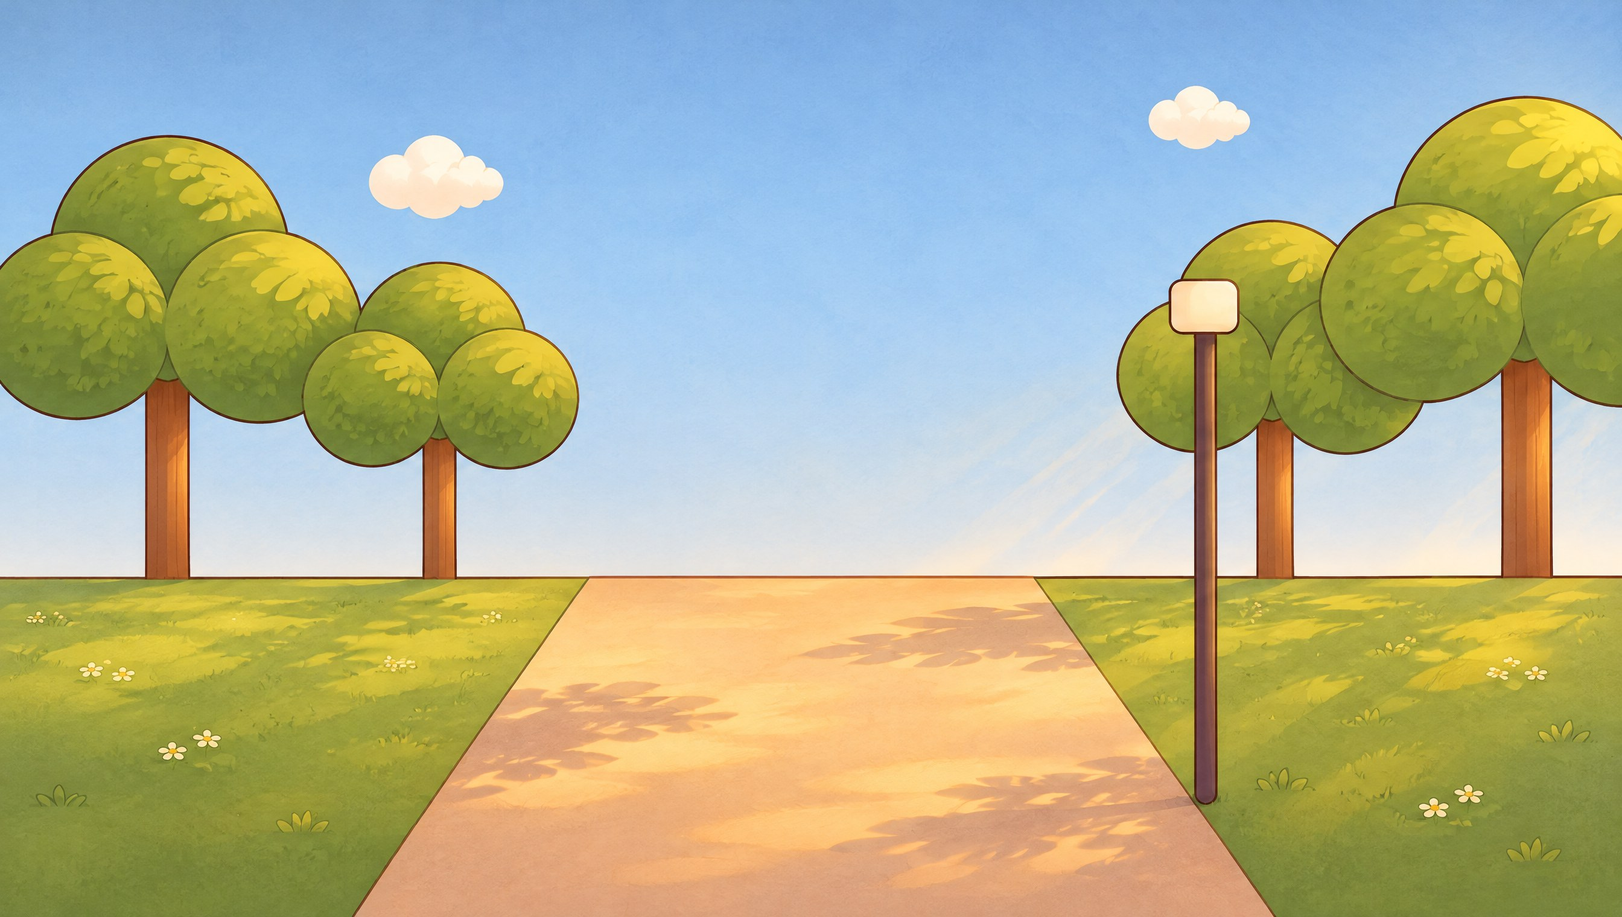
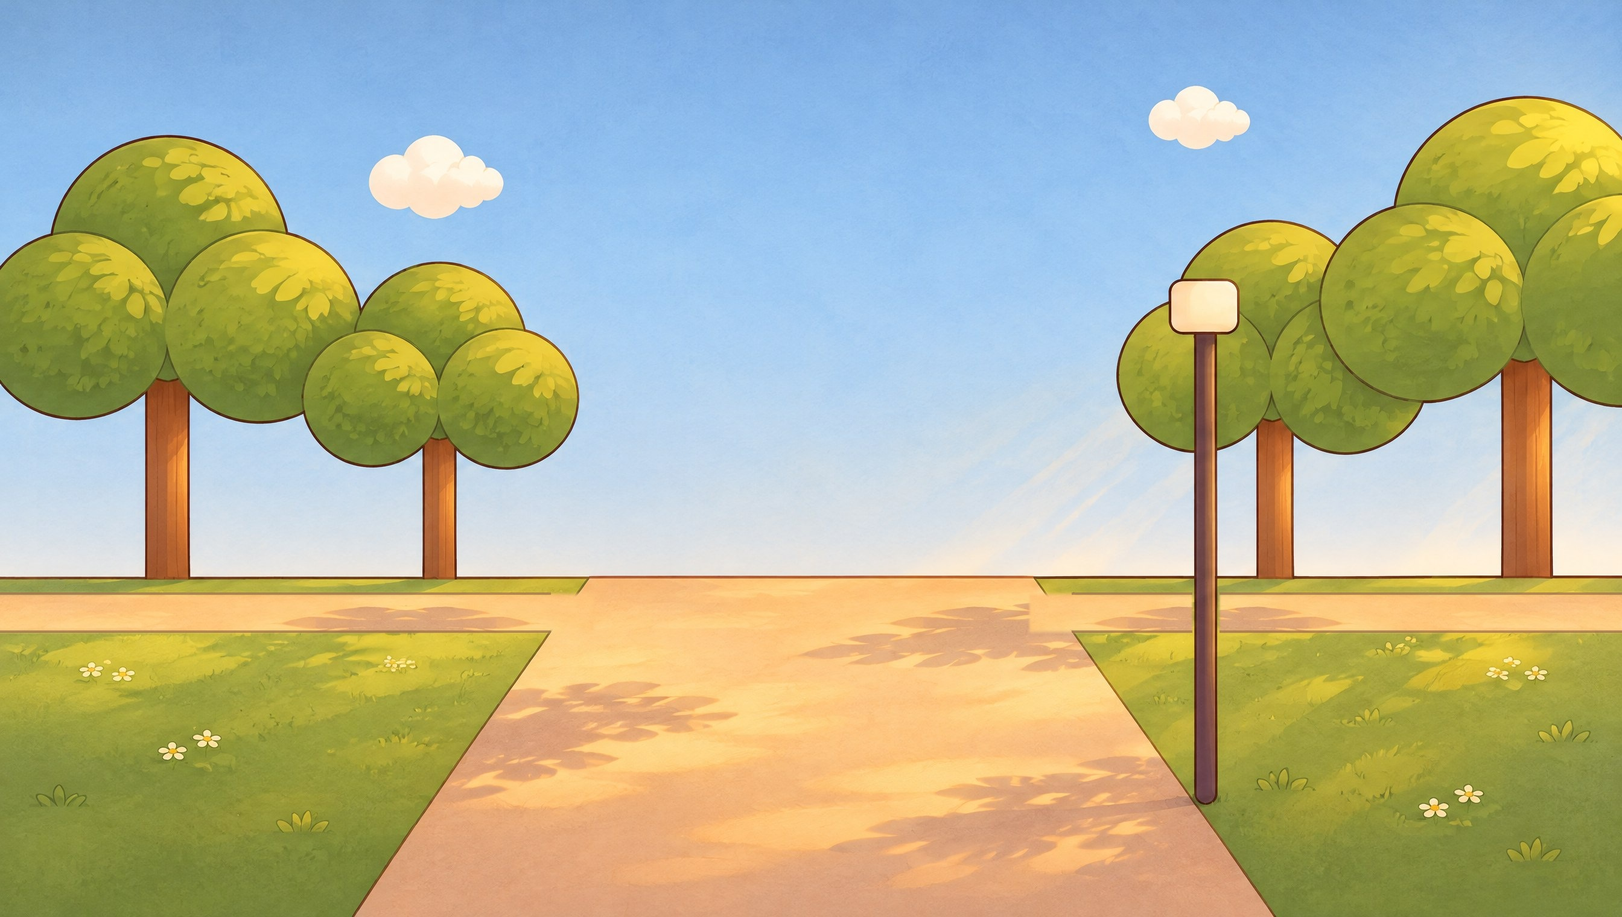
ep02: fix review notes (elbows, bench, passers-by, background noise)
- bare arms (short sleeves) are drawn as one seamless tube under the painted
  sleeve, so elbows bend without a visible mannequin joint
- no more 'desk hands' without a desk in the classroom and the kitchen;
  odd hand-on-chest gesture removed in the opening
- bench scenes: the whole bench is behind the sitter, legs dangle in front,
  hands on the thighs (no body passing through the seat)
- passers-by walk on the sidewalk (opening) and on a new cross path in the
  park, behind the bench; hidden in the blurred close-ups
- party: guests hiding behind the sofa no longer show under it; sofa legs;
  VIERNES moved from the banner to a corner caption
- mix: removed the filtered-noise street air / room tone and vision hiss
  (audible after mastering); a few soft synthetic bird chirps outdoors

Claude-Session: https://claude.ai/code/session_01TNc2K1rotN6gJL8Q6y7rCa

Changed region(s): [[0.625, 0.6184, 1.0, 0.7112], [0.0, 0.6184, 0.375, 0.7112]]

diff --git a/canal_es/ep02/scB.js b/canal_es/ep02/scB.js
@@ -1,4 +1,5 @@
 /* Ep02 scenes 6–11: rock-paper-scissors, the surprise question, small accidents, the lottery, dinner twice, no more surprises. */
+function standing(x, extra = {}) { return Object.assign({ x, y: FEET, s: S0 }, extra); }   // arms at rest: no floating 'desk' hands without a desk
 function seated(name, x, extra = {}) { return Object.assign({ x, y: FEET, s: S0, sit: 1, hL: [-62, -296], hR: [62, -296], armsFront: 1 }, extra); }
 /* rock / paper / scissors badge */
 function rps(g, x, y, k, s = 1, col = '#ffffff', label) { g.save(); g.translate(x, y); g.scale(s, s); circ(g, 0, 0, 58, col, 6);
@@ -71,7 +72,7 @@ SC.s07 = (X, t) => {
   ]);
   const st = stageF(cam); st.wld(g => { drawSet(g, 'classroom'); if (HYB) boardText(g, t > ask0 ? '6 × 7 = ?' : 'PREGUNTA SORPRESA', ''); teacherDesk(g, 1690); });
   st.col(g => drawPigeon(g, 260, 380, .38, { flip: 1, tilt: Math.sin(t * .8) * .12 }));
-  st.wld(g => { drawChar(g, 'ex2', seated('ex2', 380, { t, look: [6, 4], mouth: .1 })); drawChar(g, 'ex3', seated('ex3', 1180, { t, look: t > Lt('s07_03') ? [-16, 0] : [4, 4], mouth: t > Lt('s07_03') ? -.2 : .1, wide: t > Lt('s07_03') ? .4 : 0 })); });
+  st.wld(g => { drawChar(g, 'ex2', standing(380, { t, look: [6, 4], mouth: .1 })); drawChar(g, 'ex3', standing(1180, { t, look: t > Lt('s07_03') ? [-16, 0] : [4, 4], mouth: t > Lt('s07_03') ? -.2 : .1, wide: t > Lt('s07_03') ? .4 : 0 })); });
   // profe: at the board, back to the class, turns when you answer
   const facing = t > turn, pp = { x: 1500, y: FEET, s: S0, t, flip: facing ? -1 : 1, look: facing ? [-14, 4] : [16, -10], mouth: -.2, brow: .6, hR: [190, -560] };
   if (speaking(t, 's07_05')) { pp.open = talk(t, 's07_05'); pp.hR = [190, -560]; }
@@ -79,7 +80,7 @@ SC.s07 = (X, t) => {
   if (t > nb1) { pp.hR = [180, -420]; pp.holdR = (g, x, y) => notebook(g, x + 20, y - 40, .55, 'TÚ', -.1, pp.flip); }
   if (t > nb2) { pp.hL = [-180, -420]; pp.holdL = (g, x, y) => notebook(g, x - 20, y - 40, .55, 'TÚ 2', .1, pp.flip); }
   st.wld(g => drawChar(g, 'profe', pp));
-  const hp = seated('tu', 800, { t, mouth: .1, look: [10, 2] });
+  const hp = standing(800, { t, mouth: .1, look: [10, 2] });
   if (t > Lt('s07_02')) { hp.lid = .25; hp.mouth = .4; hp.brow = -.2; }
   if (t > Lt('s07_03') - .2 && t < Lt('s07_04') + .5) { hp.hR = [120, -640]; hp.open = talk(t, 's07_03'); }
   if (t > Lt('s07_06')) { hp.mouth = -.25; hp.sweat = 1; hp.lid = 0; hp.brow = .6; }
@@ -193,7 +194,7 @@ SC.s10 = (X, t) => {
     if (speaking(t, 's10_06')) { mp.open = talk(t, 's10_06'); mp.look = [-16, 0]; mp.mouth = .4; }
     if (t > Lt('s10_08') - .05) { mp.look = [-16, 0]; mp.wide = .7; mp.mouth = -.3; mp.brow = .9; const u = R(t, Lt('s10_08'), Lt('s10_08') + .4, back); mp.hR = [mix(140, 250, u), mix(-330, -480, u)]; mp.holdR = (g, x, y) => { for (const [c, w] of [['#3b2614', 20], ['#d9a94a', 11]]) { line(g, [[x, y - 110], [x, y + 50]], c, w); line(g, [[x - 42, y - 62], [x + 42, y - 62]], c, w); } }; }
     st.wld(g => drawChar(g, 'mama', mp));
-    const hp = seated('tu', 760, { t, look: [14, 0], mouth: .1 });
+    const hp = standing(760, { t, look: [14, 0], mouth: .1 });   // standing at the table, hands down by the edge (as in s09)
     if (speaking(t, 's10_03')) { hp.open = talk(t, 's10_03'); hp.mouth = .4; }
     if (speaking(t, 's10_07')) { hp.open = talk(t, 's10_07'); hp.lid = .3; }
     if (t > Lt('s10_08')) { hp.mouth = -.2; hp.sweat = 1; hp.brow = .5; }
@@ -233,7 +234,8 @@ function partyBannerFix(g) { g.save(); const gr = g.createLinearGradient(0, 100,
   for (const [x, y, c] of [[1440, 186, '#fde047'], [1540, 184, '#5ee7ff'], [1640, 160, '#e07a8a']]) { g.save(); g.translate(x, y + 26); g.fillStyle = c; g.strokeStyle = OUT; g.lineWidth = 4; g.beginPath();
     for (let i = 0; i < 10; i++) { const a = -Math.PI / 2 + i * Math.PI / 5, r = i % 2 ? 14 : 32; g.lineTo(Math.cos(a) * r, Math.sin(a) * r); } g.closePath(); g.fill(); g.stroke(); g.restore(); }
   g.restore(); }
-function sofa(g, x, y) { shape(g, q => rrPath(q, x - 330, y - 230, 660, 170, 40), '#4a5fa8', 7); shape(g, q => rrPath(q, x - 360, y - 110, 720, 120, 30), '#5a70b8', 7);
+function sofa(g, x, y) { for (const dx of [-320, 300]) shape(g, q => rrPath(q, x + dx - 10, y - 4, 30, 50, 6), '#2e2a3a', 5);   // legs down to the floor
+  shape(g, q => rrPath(q, x - 330, y - 230, 660, 170, 40), '#4a5fa8', 7); shape(g, q => rrPath(q, x - 360, y - 110, 720, 120, 30), '#5a70b8', 7);
   for (const dx of [-360, 330]) shape(g, q => rrPath(q, x + dx, y - 170, 40, 170, 18), '#3f528f', 6); }
 SC.s11 = (X, t) => {
   const door = Lt('s11_06') + .2, jump = Lt('s11_08') - .15, prac = Lt('s11_07');
@@ -281,9 +283,9 @@ SC.s11 = (X, t) => {
       if (!hidden) { const G = charGeom(CAST[n], p); [p.hL, p.hR] = POSE.stretch(up, G); }
       if (n === 'nacho' && speaking(t, 's11_11')) { p.open = talk(t, 's11_11'); p.mouth = .2; p.lid = .4; p.brow = .8; p.hL = p.hR = null; }
       if (n === 'nacho' && t > Lt('s11_10') && !speaking(t, 's11_11')) { p.mouth = 0; p.lid = .3; p.brow = .6; p.hL = p.hR = null; }
-      st.wld(g => drawChar(g, n, p)); }
+      st.wld(g => { if (hidden) { g.save(); g.beginPath(); g.rect(-5000, -5000, 10000, 5000 + 896); g.clip(); }   // crouched: nothing shows below the sofa
+        drawChar(g, n, p); if (hidden) g.restore(); }); }
     st.wld(g => sofa(g, 1590, 890));
-    if (t < Lt('s11_06')) st.wld(g => { text(g, 'VIERNES', 960, 260, 90, '#e02424', 'Bangers', 'center'); });
     hp = { x: t < door ? -200 : mix(260, 420, R(t, door, door + .8, io)), y: FEET, s: S0, t, walk: t > door && t < door + .8 ? 1 : 0, phase: walkPh(t * 80), look: [16, 0], mouth: .2 };
     if (t > prac && t < jump) { const k = Math.floor((t - prac) / .55) % 4; Object.assign(hp, [{ wide: .8, open: .8, brow: .9 }, { wide: .2, open: .3, brow: -.6, mouth: .9 }, { wide: 1, open: 1, brow: 1, hy: -10 }, { wide: .5, open: .6, brow: .4, rot: .1 }][k]); }
     if (t > Lt('s11_09') - .1 && t < Lt('s11_11')) { Object.assign(hp, { wide: .15, open: .35, brow: .2, mouth: 0, rot: 0 }); const G = charGeom(CAST.tu, hp); [hp.hL, hp.hR] = POSE.shrug(.4, G); }
@@ -294,6 +296,7 @@ SC.s11 = (X, t) => {
     st.col(g => futEyes(g, 'tu', hp, ga));
     composeF(X, st, { ghost: ga, t });
     if (t > jump && t < jump + 1.6) { const r = rnd(7); X.save(); for (let i = 0; i < 70; i++) { const u = (t - jump) * (.7 + r() * .6), x = r() * W, y = -40 + u * (500 + r() * 500); X.fillStyle = ['#fde047', '#e02424', '#5ee7ff', '#7ee38a'][i % 4]; X.fillRect(x + Math.sin(u * 6 + i) * 30, y, 14, 22); } X.restore(); }
+    if (t < Lt('s11_06')) sticker(X, 'VIERNES', 1, 70, 70, 62);   // a caption in the corner, not painted over the birthday banner
     if (t > Lt('s11_10') && t < Lt('s11_11')) sticker(X, 'ACTUACIÓN: 0/10', R(t, Lt('s11_10'), Lt('s11_10') + .25, back), 70, 70, 70, '#ffffff');
     futHUD(X, ga, hudN(t, door + .1, jump));
   }

diff --git a/canal_es/ep02/scC.js b/canal_es/ep02/scC.js
@@ -7,6 +7,9 @@ function dog(g, x, y, s, ph = 0, flip = 1) { g.save(); g.translate(x, y); g.scal
   g.save(); g.translate(78, -96); ell(g, 0, 0, 40, 34, 0, '#d99a58'); ell(g, 34, 10, 22, 16, 0, '#d99a58'); circ(g, 52, 4, 7, OUT, 0); circ(g, 8, -8, 5, OUT, 0);
   ell(g, -18, -10, 14, 28, .4, '#8a5a2b'); g.restore(); g.restore(); }
 function leaf(g, x, y, r, c = '#e0913a') { g.save(); g.translate(x, y); g.rotate(r); shape(g, q => { q.moveTo(-18, 0); q.quadraticCurveTo(0, -14, 18, 0); q.quadraticCurveTo(0, 14, -18, 0); }, c, 3); g.restore(); }
+/* sitting on the park bench, seen from the front: the whole bench is drawn behind the sitter, hips on the seat, short
+   (foreshortened) legs dangling in front of it with the feet off the ground (no floor shadow), hands resting on the thighs */
+function benchSit(x, extra = {}) { return Object.assign({ x, y: 905, s: S0, sit: 1, noShadow: 1, hL: [-80, -125], hR: [80, -125], armsFront: 1 }, extra); }
 function dashRing(g, x, y, r, t, col = '#fde047') { g.save(); g.strokeStyle = col; g.lineWidth = 8; g.setLineDash([22, 16]); g.lineDashOffset = -t * 60; g.beginPath(); g.arc(x, y, r, 0, 7); g.stroke(); g.restore(); }
 
 /* ================================================================ 12. five seconds ahead of everyone; Pepe has no ghost */
@@ -46,21 +49,19 @@ SC.s12 = (X, t) => {
     if (t > laugh && t < laugh + 1.2) comicWord(X, '¡JA!', ...worldToScreen(cam, 800, 320), t - laugh, 70);
     if (t > laugh + lag && t < laugh + lag + 1.2) comicWord(X, '¡JAJAJA!', ...worldToScreen(cam, 1450, 300), t - laugh - lag, 70);
   } else {
-    st.wld(g => { drawSet(g, 'park'); bench(g, 0); });
-    // passers-by, a dog and falling leaves: each with its ghost a few steps ahead
+    // passers-by and a dog on the far cross path, behind the bench; each with its ghost a few steps ahead
     const P = [['ex1', 150, 70], ['ex6', 1900, -60]], dg = tt => 1800 - 120 * (tt - bench0);
-    const far = t < Lt('s12_09') - .1 || t > Lt('s12_12') - .1;
-    if (far) st.wld(g => { for (const [n, x0, v] of P) walker(g, n, x0, v, t - bench0, { s: .4, y: 720 }); dog(g, dg(t), 740, .4, t * 9, -1); });
+    const far = (cam.z || 1) < 1.45;   // the far path only in the wide shots (in the blurred close-ups a sharp passer-by reads as standing on the bench)
+    st.wld(g => { drawSet(g, 'park'); if (far) { for (const [n, x0, v] of P) walker(g, n, x0, v, t - bench0, { s: .4, y: 724 }); dog(g, dg(t), 738, .4, t * 9, -1); } bench(g, 0); bench(g, 1); });
     const L = [[700, 0], [1250, 2.1], [1500, 1.1], [420, 3.0]], leafAt = (tt, i) => { const [x, ph] = L[i], u = ((tt * .12 + ph * .3) % 1); return [x + Math.sin(u * 9 + i) * 40, -60 + u * 1100, u * 9]; };
     st.wld(g => { for (let i = 0; i < L.length; i++) leaf(g, ...leafAt(t, i)); });
-    const hp = { x: 900, y: 905, s: S0, t, sit: 1, look: [14, 6], mouth: .1, hL: [-40, -300], hR: [40, -300], armsFront: 1 };
+    const hp = benchSit(900, { t, look: [14, 6], mouth: .1 });
     if (t > Lt('s12_09')) { hp.look = [16, 12]; hp.wide = .4; hp.brow = .5; }
     if (speaking(t, 's12_12')) { hp.open = talk(t, 's12_12'); hp.brow = .7; }
     st.col(g => drawChar(g, 'tu', hp));
-    st.wld(g => bench(g, 1));
     st.col(g => drawPigeon(g, 1080, 792, .62, { flip: -1, front: t > Lt('s12_12'), tilt: t > Lt('s12_13') ? .25 * bump(t, Lt('s12_13') + .3, Lt('s12_13') + 1.4) : Math.sin(t * 1.1) * .06 }));
     ga = vis(t, Lt('s12_07') + .4, T().dur);
-    if (ga > 0) st.fut(g => { if (far) { for (const [n, x0, v] of P) walker(g, n, x0, v, t - bench0 + 4.5, { s: .4, y: 720 }); dog(g, dg(t + 3), 740, .4, t * 9, -1); } for (let i = 0; i < L.length; i++) leaf(g, ...leafAt(t + 3.5, i)); });
+    if (ga > 0) st.fut(g => { if (far) { for (const [n, x0, v] of P) walker(g, n, x0, v, t - bench0 + 4.5, { s: .4, y: 724 }); dog(g, dg(t + 3), 738, .4, t * 9, -1); } for (let i = 0; i < L.length; i++) leaf(g, ...leafAt(t + 3.5, i)); });
     st.col(g => futEyes(g, 'tu', hp, ga * .8));
     composeF(X, st, { ghost: ga, t, rim: .6 });
     if (t > Lt('s12_09') - .05) { const [px, py] = worldToScreen(cam, 1080, 740); X.save(); X.globalAlpha = R(t, Lt('s12_09'), Lt('s12_09') + .3); dashRing(X, px, py, 95 * cam.z, t); X.restore(); }
@@ -220,12 +221,11 @@ SC.s16 = (X, t) => {
     { t: Lt('s16_06') - .05, cx: 1140, cy: 660, z: 3.0, z2: 3.3, lock: 1 },
     { t: Lt('s16_07') - .05, cx: 1120, cy: 690, z: 2.4, z2: 2.8, lock: 1 },
   ]);
-  const st = stageF(cam); st.wld(g => { drawSet(g, 'parkNight'); bench(g, 0); });
-  const hp = { x: 900, y: 905, s: S0, t, sit: 1, look: [14, 6], mouth: .3, open: t < Lt('s16_03') ? Math.abs(Math.sin(t * 7)) * .4 : 0, hL: [-40, -300], hR: [40, -300], armsFront: 1 };
+  const st = stageF(cam); st.wld(g => { drawSet(g, 'parkNight'); bench(g, 0); bench(g, 1); });
+  const hp = benchSit(900, { t, look: [14, 6], mouth: .3, open: t < Lt('s16_03') ? Math.abs(Math.sin(t * 7)) * .4 : 0 });
   if (t > Lt('s16_04')) { hp.open = 0; hp.wide = .7; hp.mouth = -.1; hp.brow = .8; }
   if (t > Lt('s16_07')) { hp.sweat = 1; hp.wide = 1; }
   st.col(g => drawChar(g, 'tu', hp));
-  st.wld(g => bench(g, 1));
   st.col(g => drawPigeon(g, 1080, 792, .62, { flip: -1, tilt: Math.sin(t * 1.1) * .06 }));
   const ga = vis(t, g0, cut + 1, .6);
   if (ga > 0) st.fut(g => { const u = R(t, beak, beak + .4, back); drawPigeon(g, 1150, 780 - 20 * ga, .7, { flip: -1, front: t > Lt('s16_06'), tilt: -.15 * u });
@@ -291,10 +291,9 @@ SC.s17 = (X, t) => {
 SC.s18 = (X, t) => {
   const end = Le('s18_05') + .9;
   const cam = shots(t, [], [{ t: 0, cx: 1060, cy: 600, z: 1.25, z2: 1.35, lock: 1 }, { t: Lt('s18_05') - .1, cx: 1080, cy: 735, z: 3.6, z2: 3.8, lock: 1 }]);
-  const st = stageF(cam); st.wld(g => { drawSet(g, 'parkNight'); bench(g, 0); });
-  st.col(g => { drawChar(g, 'valeria', { x: 1240, y: 905, s: S0, t, sit: 1, look: [-14, 4], mouth: .6, hL: [-40, -300], hR: [40, -300], armsFront: 1 });
-    drawChar(g, 'tu', { x: 900, y: 905, s: S0, t, sit: 1, look: [14, 4], mouth: .4, blush: .5, hL: [-40, -300], hR: [40, -300], armsFront: 1 }); });
-  st.wld(g => bench(g, 1));
+  const st = stageF(cam); st.wld(g => { drawSet(g, 'parkNight'); bench(g, 0); bench(g, 1); });
+  st.col(g => { drawChar(g, 'valeria', benchSit(1230, { t, look: [-14, 4], mouth: .6 }));
+    drawChar(g, 'tu', benchSit(900, { t, look: [14, 4], mouth: .4, blush: .5, footSwing: Math.sin(t * 2.4) * 10 })); });
   st.col(g => drawPigeon(g, 1080, 792, .62, { flip: -1, front: 1, tilt: Math.sin(t * 1.3) * .08 }));
   composeF(X, st, { ghost: 0, t });
   if (t > Lt('s18_01') - .05 && t < Lt('s18_03') - .1) sticker(X, '¿QUÉ HARÍAS TÚ?', R(t, Lt('s18_01') - .05, Lt('s18_01') + .25, outC), 70, 60, 70);

diff --git a/canal_es/ep02/scA.js b/canal_es/ep02/scA.js
@@ -144,7 +144,7 @@ function crossSticker(X, s, a, x, y, ok) { if (a <= 0) return; sticker(X, s, a, 
   if (!ok) { X.save(); X.globalAlpha = clamp(a); X.font = '70px Bangers'; const w = X.measureText(s).width + 40; X.strokeStyle = '#e02424'; X.lineWidth = 12; X.lineCap = 'round';
     X.beginPath(); X.moveTo(x - 6, y + 70); X.lineTo(x + w + 26, y + 6); X.stroke(); X.restore(); } }
 SC.s01 = (X, t) => {
-  const P = [['ex1', 120, 70, .62, 862], ['ex6', 1850, -75, .62, 862], ['ex4', 1300, 40, .55, 845]];
+  const P = [['ex1', -150, 62, .8, 952], ['ex6', 2070, -62, .8, 952], ['ex4', 1480, 36, .78, 942]];   // on the sidewalk (not up the wall), never crossing the hero
   const duck = Lm('s01_04', .2), catchT = Lm('s01_04', .5), say = Lm('s01_04', .78);
   const cam = shots(t, [], [
     { t: 0, cx: 960, cy: 540, z: 1.0, z2: 1.06, lock: 1 },
@@ -157,13 +157,12 @@ SC.s01 = (X, t) => {
   const st = stageF(cam); st.wld(g => drawSet(g, 'street'));
   st.col(g => drawPigeon(g, 1700, 560, .4, { flip: -1, peck: Math.max(0, Math.sin(t * 2.4)) * .6 }));
   const wl = t < Lt('s01_04') - .1;
-  if (wl) st.wld(g => { for (const [n, x0, v, s, y] of P) walker(g, n, x0, v, t, { s, y }); });
   // a ball for the dodge, a mug for the catch, a question for the answer
   const hp = { x: 900, y: FEET, s: S0, t, look: [10, 0], mouth: .2 };
   if (t > Lt('s01_03') && t < Lt('s01_04')) { const G = charGeom(CAST.tu, hp); [hp.hL, hp.hR] = POSE.shrug(R(t, Lt('s01_03'), Lt('s01_03') + .4, back) * .6, G); hp.mouth = -.2; hp.brow = .4; }
   const bu = (t - duck + .6) / 1.0;
   if (t > Lt('s01_04') - .1) {
-    st.wld(g => { drawChar(g, 'ex1', { x: 1650, y: FEET, s: S0, t, flip: -1, hR: t < duck - .6 ? [160, -560] : [220, -400], look: [-10, 0], mouth: .3 }); drawChar(g, 'ex2', { x: 1220, y: FEET, s: S0, t, flip: -1, look: [-12, 2], mouth: .1, hL: [-70, -330], hR: [70, -330] }); });
+    st.wld(g => { drawChar(g, 'ex1', { x: 1650, y: FEET, s: S0, t, flip: -1, hR: t < duck - .6 ? [160, -560] : [220, -400], look: [-10, 0], mouth: .3 }); drawChar(g, 'ex2', { x: 1220, y: FEET, s: S0, t, flip: -1, look: [-12, 2], mouth: .1 }); });
     if (bu > 0 && bu < 1) st.wld(g => propBall(g, mix(1560, 300, bu), 470 + Math.sin(bu * Math.PI) * -60, 34, bu * 8));
     if (t > duck - .25 && t < duck + .45) { hp.jump = -60 * bump(t, duck - .25, duck + .45); hp.slump = 3 * bump(t, duck - .25, duck + .45); hp.hy = 60 * bump(t, duck - .25, duck + .45); }
     const mu = R(t, catchT - .5, catchT);
@@ -172,12 +171,13 @@ SC.s01 = (X, t) => {
   }
   if (t > Lt('s01_05')) { hp.mouth = -.25; hp.sweat = 1; hp.brow = .7; }
   st.col(g => drawChar(g, 'tu', hp));
+  if (wl) st.wld(g => { for (const [n, x0, v, s, y] of P.slice().sort((a, b) => a[4] - b[4])) walker(g, n, x0, v, t, { s, y }); });   // closer than the hero: drawn after him
   // ghosts: walkers five 'seconds' ahead (a few steps), the ball arriving early, the question asked early
   const gw = vis(t, .4, Lt('s01_03') - .2) + vis(t, Le('s01_03') + .2, Lt('s01_04') - .3), gb = vis(t, Lt('s01_04') - .1, Lt('s01_05') + 2.5);
   if (gw > 0) st.fut(g => { for (const [n, x0, v, s, y] of P) walker(g, n, x0, v, t + 4.5, { s, y }); });
   if (gb > 0) st.fut(g => { const u = (t - duck + 1.8) / 1.0; if (u > 0 && u < 1) propBall(g, mix(1560, 300, u), 470 - Math.sin(u * Math.PI) * 60, 34, u * 8);
     if (t > Lt('s01_04') + .5 && t < catchT - .4) propMug(g, 1040, 760, 1.1, '#e07a8a');
-    if (t > catchT && t < Lt('s01_05') + 2) drawChar(g, 'ex2', { x: 1220, y: FEET, s: S0, t, flip: -1, look: [-12, 0], open: .3 + .4 * Math.abs(Math.sin(t * 8)), hL: [-70, -330], hR: [70, -480] }); });
+    if (t > catchT && t < Lt('s01_05') + 2) drawChar(g, 'ex2', { x: 1220, y: FEET, s: S0, t, flip: -1, look: [-12, 0], open: .3 + .4 * Math.abs(Math.sin(t * 8)), hR: [150, -470] }); });
   const ga = Math.max(gw, gb);
   st.col(g => futEyes(g, 'tu', hp, ga * .8));
   composeF(X, st, { ghost: ga, t, rim: .6 });

diff --git a/canal_es/anim/cutout.js b/canal_es/anim/cutout.js
@@ -18,7 +18,8 @@ const CUT_DIMS = {
   nacho:   { armW: 50, legW: 44, handR: 27, torsoW: 206, headDrop: 12, shoeW: 66 },
   valeria: { armW: 44, legW: 40, handR: 25, torsoW: 194, headDrop: 12, shoeW: 60 },
   profe:   { sh: 78, shy: 54, armW: 48, legW: 44, torsoW: 212, headDrop: 10, shoeW: 64 },
-  ex1: { headDrop: 8 }, ex2: { headDrop: 8, armW: 44, legW: 40 }, ex3: { headDrop: 16 }, ex4: { headDrop: 8, armW: 44, legW: 40 }, ex5: { headDrop: 8 }, ex6: { headDrop: 16 },
+  // bare: short sleeves; the row of upper.png where the sleeve ends (the arm below it is drawn as one seamless tube)
+  ex1: { headDrop: 8, bare: 211 }, ex2: { headDrop: 8, armW: 44, legW: 40, bare: 212 }, ex3: { headDrop: 16 }, ex4: { headDrop: 8, armW: 44, legW: 40, bare: 199 }, ex5: { headDrop: 8, bare: 204 }, ex6: { headDrop: 16 },
 };
 const CUT_FACE = { mama: { earrings: 0 } };   // features the painted head already has
 const CUT_BG = { kitchen: 'kitchen', kitchenNight: 'kitchenNight', hallway: 'hallway', bedroom: 'bedroom', classroom: 'classroom', street: 'street', streetRain: 'streetRain',
@@ -49,10 +50,10 @@ const CUT_READY = (async () => {
 
 /* ---------------------------------------------------------------- characters */
 /* image rows y0..y1 of part P land exactly on the bone a->b; w = drawn width of the part's body */
-function cutSeg(g, P, a, b, w, y0 = P.y0, y1 = P.y1) {
-  const dx = b[0] - a[0], dy = b[1] - a[1], L = Math.hypot(dx, dy) || 1, ky = L / (y1 - y0), kx = w / P.w, I = P.img;
+function cutSeg(g, P, a, b, w, y0 = P.y0, y1 = P.y1, rows = 0) {   // rows > 0: draw only the image rows 0..rows (same placement)
+  const dx = b[0] - a[0], dy = b[1] - a[1], L = Math.hypot(dx, dy) || 1, ky = L / (y1 - y0), kx = w / P.w, I = P.img, n = rows || I.height;
   g.save(); g.translate(a[0], a[1]); g.rotate(Math.atan2(dy, dx) - Math.PI / 2);
-  g.drawImage(I, -P.cx * kx, -y0 * ky, I.width * kx, I.height * ky); g.restore();
+  g.drawImage(I, 0, 0, I.width, n, -P.cx * kx, -y0 * ky, I.width * kx, n * ky); g.restore();
 }
 /* mitten at h, fingers pointing away from the elbow e, thumb towards the body (P.thumb: side of the thumb in the PNG) */
 function cutHand(g, P, e, h, r, squash) {
@@ -80,8 +81,15 @@ function drawCut(g, c, cname, p, G) {
   const arm = (sh, e, hf) => {
     let dx = hf[0] - e[0], dy = hf[1] - e[1]; const L = Math.hypot(dx, dy) || 1; dx /= L; dy /= L;
     const wr = [hf[0] - dx * D.handR * .55, hf[1] - dy * D.handR * .55];
-    g.save(); g.fillStyle = R.sleeve; g.strokeStyle = 'rgba(58,26,40,.95)'; g.lineWidth = 3.2; g.beginPath(); g.arc(e[0], e[1], D.armW * .47, 0, 7); g.fill(); g.stroke(); g.restore();   // elbow cap
-    cutSeg(g, R.upper, sh, e, D.armW); cutSeg(g, R.fore, e, wr, D.armW * .96);
+    if (D.bare) {   // bare arm: one outlined tube shoulder -> elbow -> wrist, so the elbow bends without a visible joint; the painted sleeve on top
+      const w = D.armW * .97, ow = D.armW * .065, u = .3, s0 = [sh[0] + (e[0] - sh[0]) * u, sh[1] + (e[1] - sh[1]) * u];   // starts under the sleeve
+      g.save(); g.lineJoin = 'round'; g.lineCap = 'round'; g.beginPath(); g.moveTo(s0[0], s0[1]); g.lineTo(e[0], e[1]); g.lineTo(wr[0], wr[1]);
+      g.strokeStyle = 'rgb(50,16,40)'; g.lineWidth = w; g.stroke(); g.strokeStyle = R.sleeve; g.lineWidth = w - 2 * ow; g.stroke(); g.restore();
+      cutSeg(g, R.upper, sh, e, D.armW, R.upper.y0, R.upper.y1, D.bare + 4);
+    } else {
+      g.save(); g.fillStyle = R.sleeve; g.strokeStyle = 'rgba(58,26,40,.95)'; g.lineWidth = 3.2; g.beginPath(); g.arc(e[0], e[1], D.armW * .47, 0, 7); g.fill(); g.stroke(); g.restore();   // elbow cap
+      cutSeg(g, R.upper, sh, e, D.armW); cutSeg(g, R.fore, e, wr, D.armW * .96);
+    }
     cutHand(g, p.fist ? R.fist : R.hand, e, hf, D.handR, A.squash);
   };
   const farArm = () => { arm(A.shL, A.eL, A.hLf); if (p.holdL) p.holdL(g, A.hLf[0], A.hLf[1]); };

diff --git a/canal_es/ep02/mix.py b/canal_es/ep02/mix.py
@@ -125,7 +125,7 @@ def frozen_pad(total):
             f = hz(m); y += (np.sin(2 * np.pi * f * tt) + .25 * np.sin(2 * np.pi * 2 * f * tt + .5)) * (1 / (k + 1.4))
         add(x, y * win * (.75 + .25 * np.sin(2 * np.pi * .12 * tt)), b * seg / SR)
     x = lp(x, 900, 4)
-    return x * .05 + lp(rng.standard_normal(L), 300) * .009
+    return x * .05   # no noise bed under the pad: after mastering it reads as hiss
 
 # ---------------------------------------------------------------- ep02 effects: the vision
 def vision():
@@ -171,17 +171,21 @@ fz = np.interp(tt, np.arange(n100) / 100.0, movavg(fr.astype(float), 15))
 pad = frozen_pad(TOTAL)[:N] * fz
 pad[int(cut * SR):int((sc('s16')['start'] + sc('s16')['dur']) * SR)] = 0   # the cut to black is silent
 ghs = np.interp(tt, np.arange(n100) / 100.0, movavg(gh, 20))
-shimmer = lp(hp(rng.standard_normal(N), 4000), 9000) * .012 * ghs   # a faint high air while the vision is on
+shimmer = np.zeros(N)   # (was a faint high noise while the vision is on: audible as hiss after mastering)
 
 # ---------------------------------------------------------------- ambience per scene
+# No broadband noise beds: the old street air / room tone (filtered white noise) came up as a constant hiss and rumble
+# once the mix was mastered to -14 LUFS. Outdoors gets a few soft synthetic bird chirps instead, indoors stays clean.
 amb = np.zeros(N)
-def room(d, lvl=.012): return lp(rng.standard_normal(int(d * SR)), 400) * lvl * 6
-for sid in T['order']:
-    s0, d = sc(sid)['start'], sc(sid)['dur']
-    if sid in ('s00', 's01', 's02', 's05', 's12', 's14', 's15'): t = secs(d); add(amb, hp(lp(rng.standard_normal(len(t)), 2500), 150) * .015, s0)
-    elif sid == 's16': t = secs(d); add(amb, hp(lp(rng.standard_normal(len(t)), 1800), 200) * .010, s0)
-    elif sid == 's17': pass
-    else: add(amb, room(d), s0)
+def chirp(f0=3200, d=.09):
+    t = secs(d); f = f0 * (1 + .25 * np.sin(np.pi * t / d)); return np.sin(2 * np.pi * np.cumsum(f) / SR) * np.sin(np.pi * t / d) ** 2 * .05
+r_amb = np.random.default_rng(11)
+for sid in ('s01', 's05', 's12', 's15'):
+    s0, d = sc(sid)['start'], sc(sid)['dur']; tb = s0 + 1.5
+    while tb < s0 + d - 1:
+        f0 = r_amb.uniform(2600, 3800)
+        for k in range(r_amb.integers(2, 4)): add(amb, chirp(f0 * r_amb.uniform(.95, 1.08)), tb + k * .13, r_amb.uniform(.5, 1))
+        tb += r_amb.uniform(2.5, 5.5)
 amb *= (1 - fz)
 
 # ---------------------------------------------------------------- effects timeline
